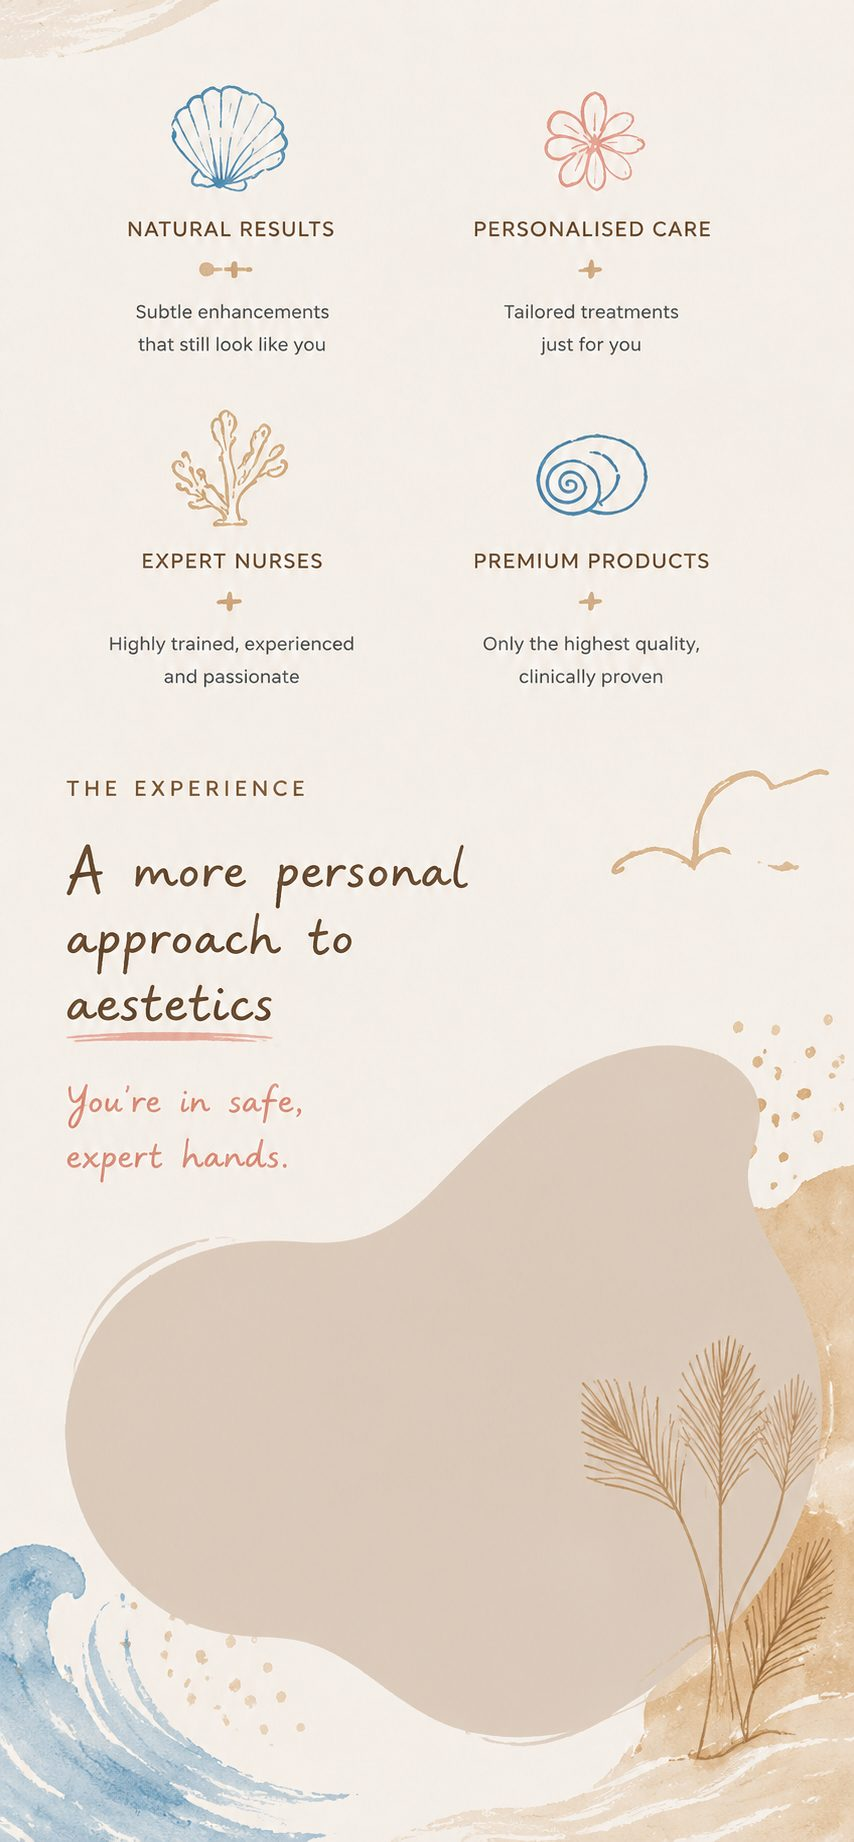
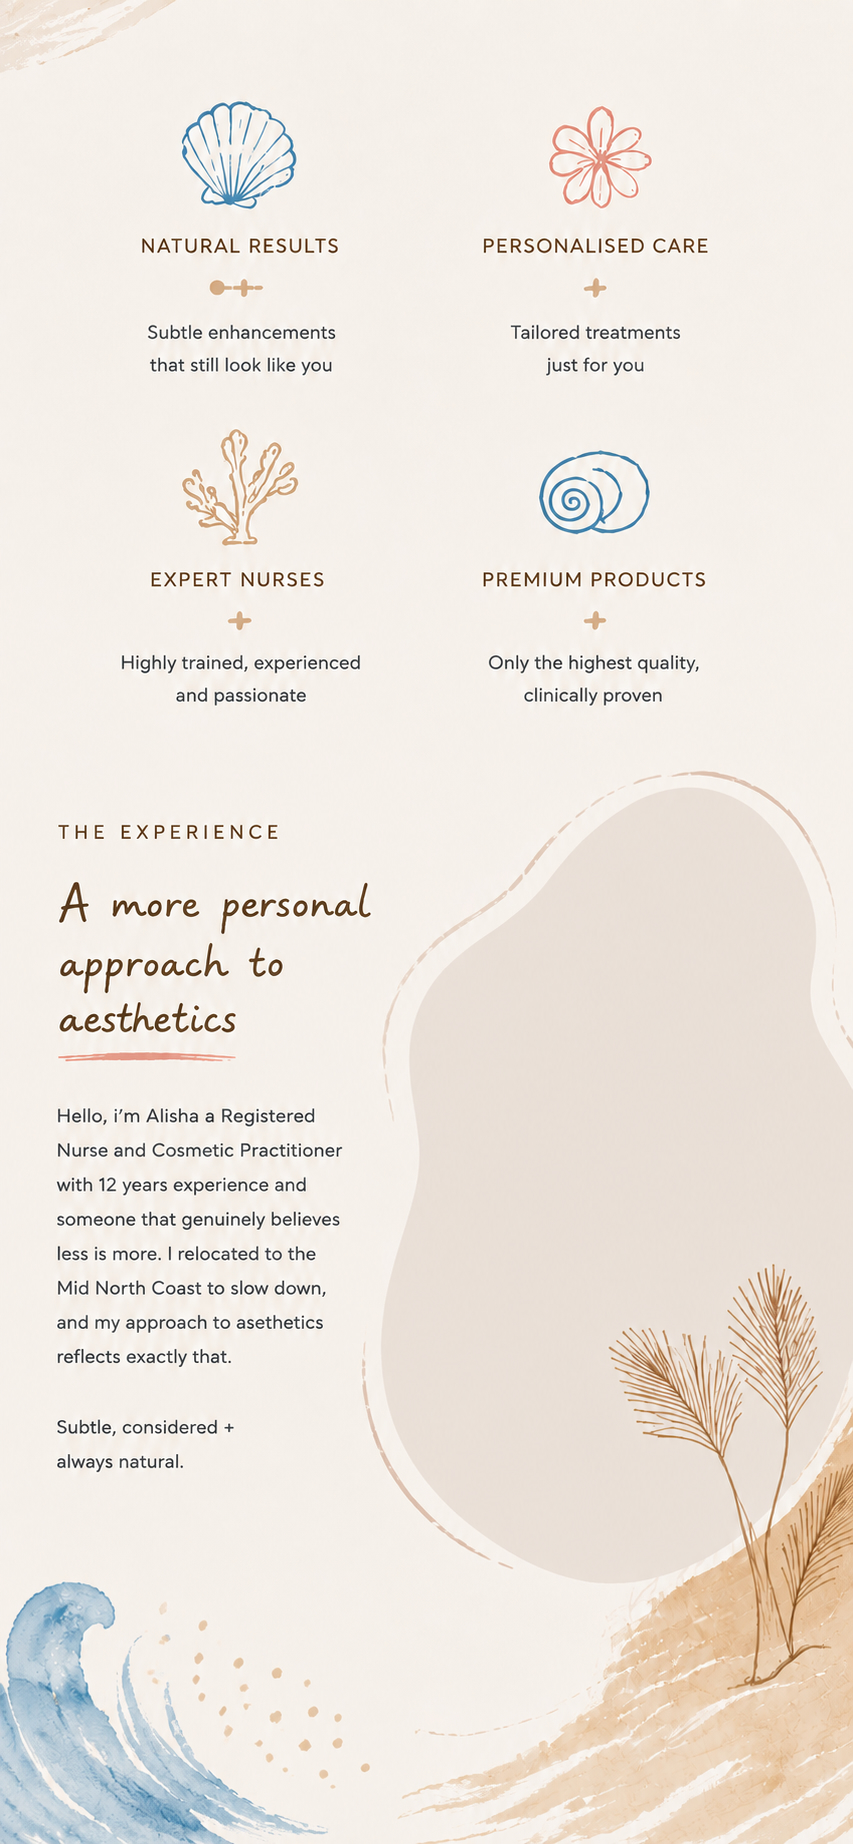
updated files

diff --git a/index.html b/index.html
@@ -49,7 +49,8 @@
     <img src="assets/img/mobile-about.jpg" alt="A more personal approach to aesthetics — The Natural Edit" class="art-bg mobile-only">
 
     <div class="hotspot blob-photo">
-      <img src="assets/img/photo-placeholder.jpg" alt="Studio interior — replace with your own photo" class="blob-img">
+      <img src="assets/img/photo-placeholder.jpg" alt="Alisha, founder of The Natural Edit" class="blob-img dt-only">
+      <img src="assets/img/alisha-mobile.jpg" alt="Alisha, founder of The Natural Edit" class="blob-img mobile-only">
     </div>
   </section>
 

diff --git a/assets/style.css b/assets/style.css
@@ -416,17 +416,17 @@ a{ color:inherit; }
   }
 
   .blob-photo{
-    left:7.7%;
-    top:56.8%;
-    width:88.4%;
-    height:37.8%;
+    left:44.2%;
+    top:42.5%;
+    width:55.8%;
+    height:43.5%;
     -webkit-mask-image:url('img/mobile-blob-mask.png');
     mask-image:url('img/mobile-blob-mask.png');
   }
 
   .blob-img{
-    object-position:50% 28%;
-    transform:scale(1.18);
+    object-position:50% 20%;
+    transform:scale(1.15);
   }
 
   .footer-top{ grid-template-columns:1fr 1fr; }
